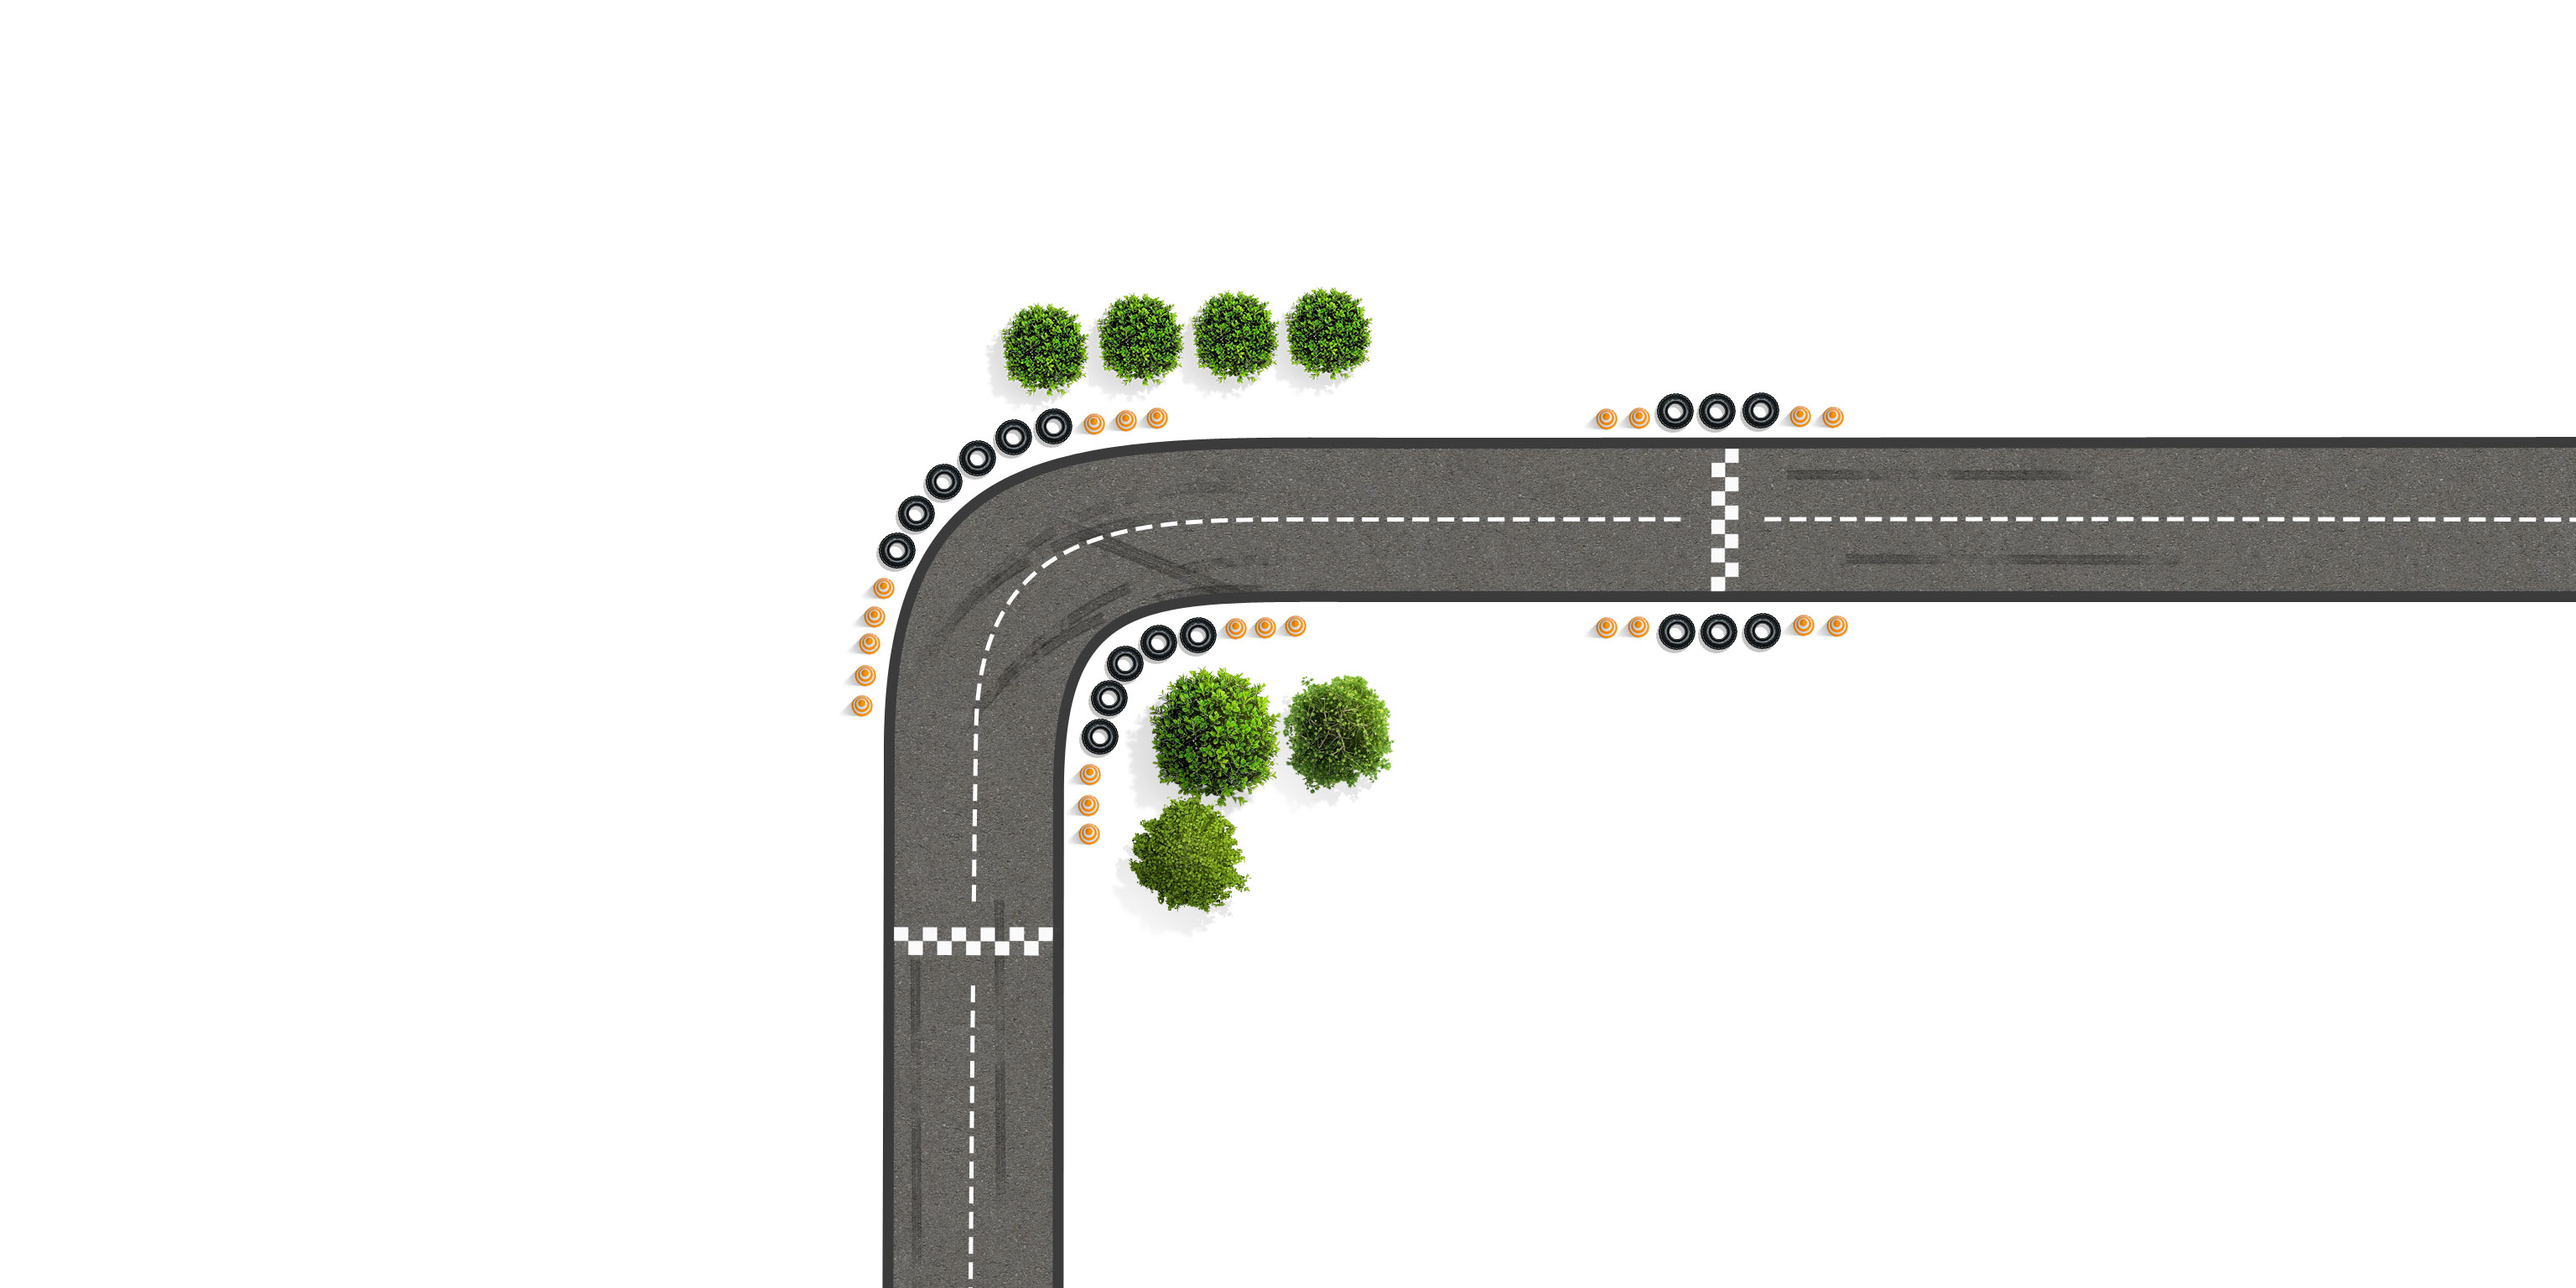
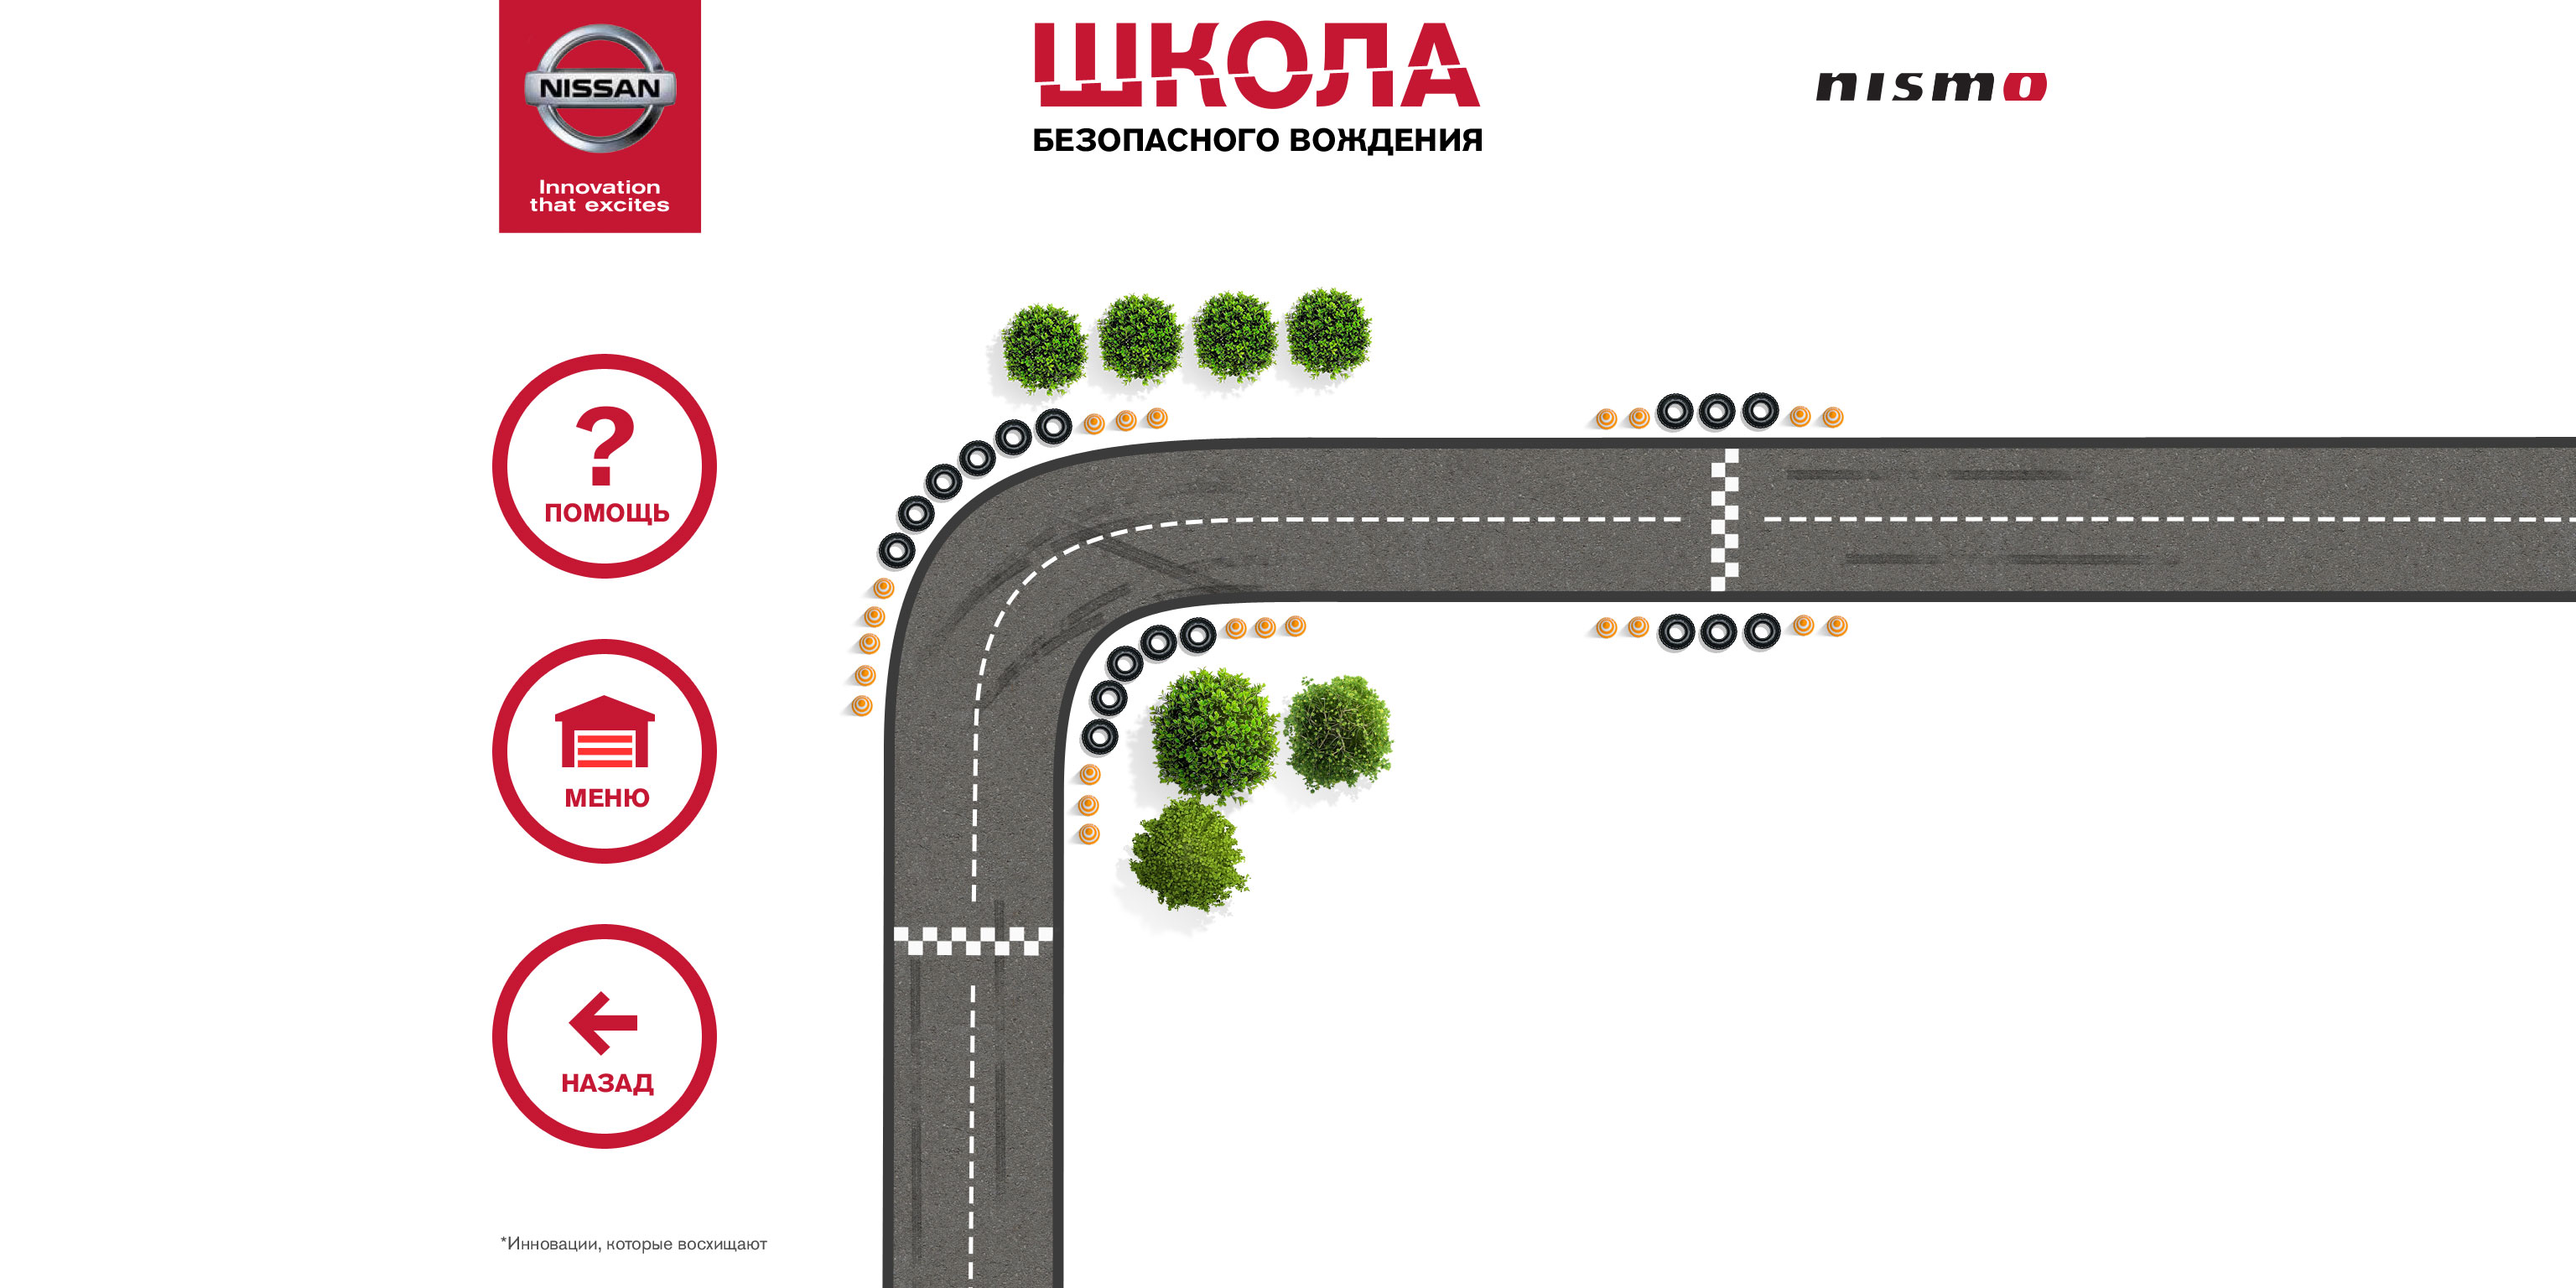
lesson2

diff --git a/src/turn.js b/src/turn.js
@@ -11,7 +11,7 @@ var Turn = cc.Layer.extend({
 	    	w: 306,
 	    	h: 306,
 	    	click: function () {
-	    		//turn.choose();
+	    	  app.turn.choose();
 	    	}
 	    },
 	    {
@@ -35,14 +35,131 @@ var Turn = cc.Layer.extend({
 	    	w: 306,
 	    	h: 306,
 	    	click: function () {
-	    	  app.menu = new Menu();	
-	    	  app.runStage(app.menu, 2);
+	    	  app.runStage(new Menu(), 2);
 	    	}
 	    }
 	  ]
 	},
+	menuChoose: {
+	  back: assets.turnChooseBack,
+	  areas: [
+	    {
+	    	x: 1536 - 850,
+	    	y: 1536 - 574 - 365,
+	    	w: 365,
+	    	h: 365,
+	    	click: function () {
+	    	  cc.loader.loadJson("res/data/turn.json", function(error, data) {
+	    		app.turn.game(1, data[0]);  
+	    	  });	
+	    	}	
+	    },
+	    {
+	    	x: 1536 - 416,
+	    	y: 1536 - 574 - 365,
+	    	w: 365,
+	    	h: 365,
+	    	click: function () {
+	    		cc.loader.loadJson("res/data/turn.json", function(error, data) {
+	    			app.turn.game(2, data[1]);  
+	    		});
+	    	}	
+	    },
+	    {
+	    	x: 1536 + 10,
+	    	y: 1536 - 574 - 365,
+	    	w: 365,
+	    	h: 365,
+	    	click: function () {
+	    		cc.loader.loadJson("res/data/turn.json", function(error, data) {
+	    			app.turn.game(3, data[2]);  
+	    		});
+	    	}	
+	    },
+	    {
+	    	x: 1536 + 440,
+	    	y: 1536 - 574 - 365,
+	    	w: 365,
+	    	h: 365,
+	    	click: function () {
+    		  app.runStage(new Menu(), 2);
+	    	}	
+	    }
+	  ]
+	},
+	menuGame: {
+		back: assets.turnType1,
+		areas: [
+	    {
+	    	x     : 1536 - 955,
+	    	y     : 1536 - 420 - 268,
+	    	w     : 268,
+	    	h     : 268,
+	    	click : function () {
+	    		app.turn.help();	
+	    	}
+	    },
+	    {
+	    	x     : 1536 - 955,
+	    	y     : 1536 - 760 - 268,
+	    	w     : 268,
+	    	h     : 268,
+	    	click : function () {
+	    		app.runStage(new Menu(), 2);
+	    	}
+	    },
+	    {
+	    	x     : 1536 - 955,
+	    	y     : 1536 - 1102 - 268,
+	    	w     : 268,
+	    	h     : 268,
+	    	click : function () {
+	    		app.turn.choose();
+	    	}
+	    }
+	  ]
+	},
+	menuHelp: {
+      back: assets.turnHelp,
+      areas: [
+        {
+        	 x: 1536 - 953,
+             y: 1536 - 410 - 270,
+             w: 270,
+             h: 270,
+             click: function () {
+            	app.runStage(new Menu(), 2);
+             }
+        },
+        {
+       	 x: 1536 - 953,
+       	 y: 1536 - 750 - 270,
+            w: 270,
+            h: 270,
+            click: function () {
+            	cc.loader.loadJson("res/data/turn.json", function(error, data) {
+	    			app.turn.game(app.turn.currentTrack, data[app.turn.currentTrack - 1]);  
+	    		}); 
+            }
+       }
+      ]
+	},
 	init: function () {
 	  app.turn = this;	
 	  app.renderMenu(this, this.menuIntro, true);
+	},
+	choose: function () {
+	  app.renderMenu(this, this.menuChoose, true);
+	},
+	help: function () {
+	  app.renderMenu(this, this.menuHelp, true);
+	},
+	game: function (type, track) {
+	  this.currentTrack = type;	
+	  this.menuGame.back = 'res/turn/turn-type' + type + '.jpg';
+	  app.renderMenu(this, this.menuGame, true);
+	  
+	  
+	  
 	}
 });

diff --git a/src/video.js b/src/video.js
@@ -22,34 +22,11 @@ var Video = cc.Layer.extend({
 	    }      
 	  ]	
 	},
-	playVideo: function (url) {
-	  switch (cc.sys.platform) {
-	    case cc.sys.WINDOWS: {
-	       cc.log("Windows platform");
-	       break;	
-	    }
-	    case cc.sys.ANDROID: {
-	    	cc.log("ANDROID platform");
-	    	jsb.reflection.callStaticMethod("org/cocos2dx/javascript/AppActivity", "playVideo", "(Ljava/lang/String;)V", url);
-	    	break;	
-	    }
-	    case cc.sys.IPAD:
-	    case cc.sys.IPHONE: {
-	    	cc.log("iOS platform");
-	    	break;	
-	    }
-	    default: {
-	      cc.log("UNKNOW platform"); 	
-	      break; 	
-	    }
-	  }	
-	},
 	touchEvent: function (sender, type) {
 	  switch (type) {
 		case ccui.Widget.TOUCH_BEGAN: {
 			if (typeof(sender.videoURL) == 'string') {
-			  cc.log("Try play video > " + sender.videoURL);
-			  this.playVideo(sender.videoURL);
+			  app.playVideo(sender.videoURL);
 		    }	
 			break;
 		}

diff --git a/src/app.js b/src/app.js
@@ -147,13 +147,35 @@ var app = {
     				  return false;
     			  }
     		  }, clickArea);
-    				  
+
     	  }
-    	  
-    	}.bind(this));
+
+		  }.bind(this));
 	  }	  
   },
 
+  playVideo: function (url) {
+	  switch (cc.sys.platform) {
+	  case cc.sys.WINDOWS: {
+		  cc.log("Windows platform");
+		  break;	
+	  }
+	  case cc.sys.ANDROID: {
+		  cc.log("ANDROID platform");
+		  jsb.reflection.callStaticMethod("org/cocos2dx/javascript/AppActivity", "playVideo", "(Ljava/lang/String;)V", url);
+		  break;	
+	  }
+	  case cc.sys.IPAD:
+	    case cc.sys.IPHONE: {
+	    	cc.log("iOS platform");
+	    	break;	
+	    }
+	    default: {
+	      cc.log("UNKNOW platform"); 	
+	      break; 	
+	    }
+	  }	
+  },
   openURL: function (url) {
 	if (url !== '') {
       cc.log(url);

diff --git a/src/assets.js b/src/assets.js
@@ -22,6 +22,11 @@ var assets = {
   
   // Графические ресурсы к уроку Прохождение поворота
   turnIntroBack: 'res/turn/turn-intro-background.jpg',
+  turnChooseBack: 'res/turn/turn-choose-background.jpg',
+  turnType1: 'res/turn/turn-type1.jpg',
+  turnType2: 'res/turn/turn-type2.jpg',
+  turnType3: 'res/turn/turn-type3.jpg',
+  turnHelp: 'res/turn/turn-help.jpg',
   
   // Графические ресурсы к теории
   theoryAcceleratorBack : 'res/theory/accelerator-bg.jpg',

diff --git a/src/menu.js b/src/menu.js
@@ -196,6 +196,7 @@ var Menu = cc.Layer.extend({
 		         ] 
 	},
 	init: function (options) {
+	  app.menu = this;
 	  this.menuVideo.areas = this.menuVideo.areas.concat(this.topMenuAreas);
       this.menuLessons.areas = this.menuLessons.areas.concat(this.topMenuAreas);
       this.menuGames.areas = this.menuGames.areas.concat(this.topMenuAreas);
